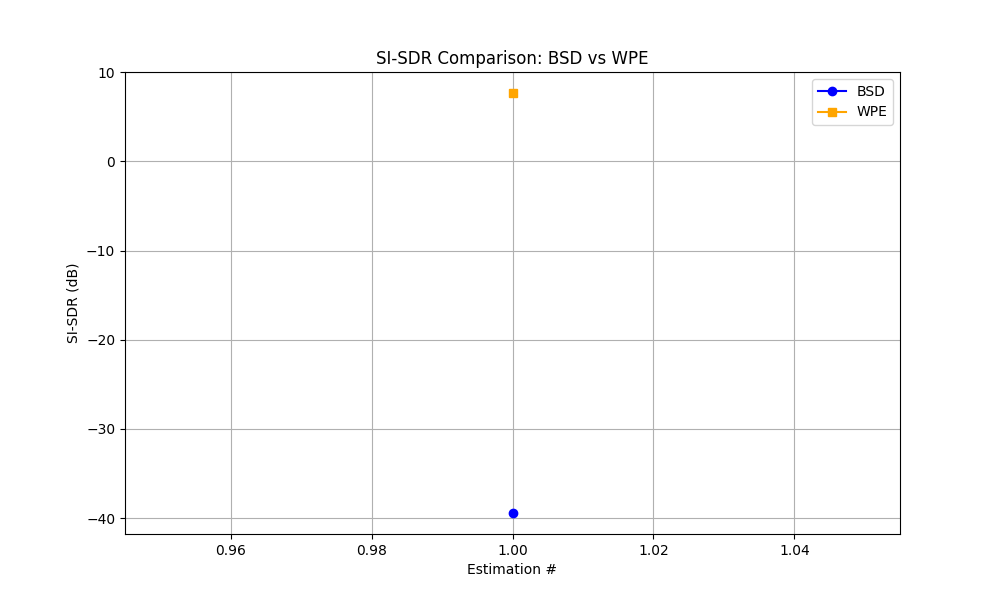
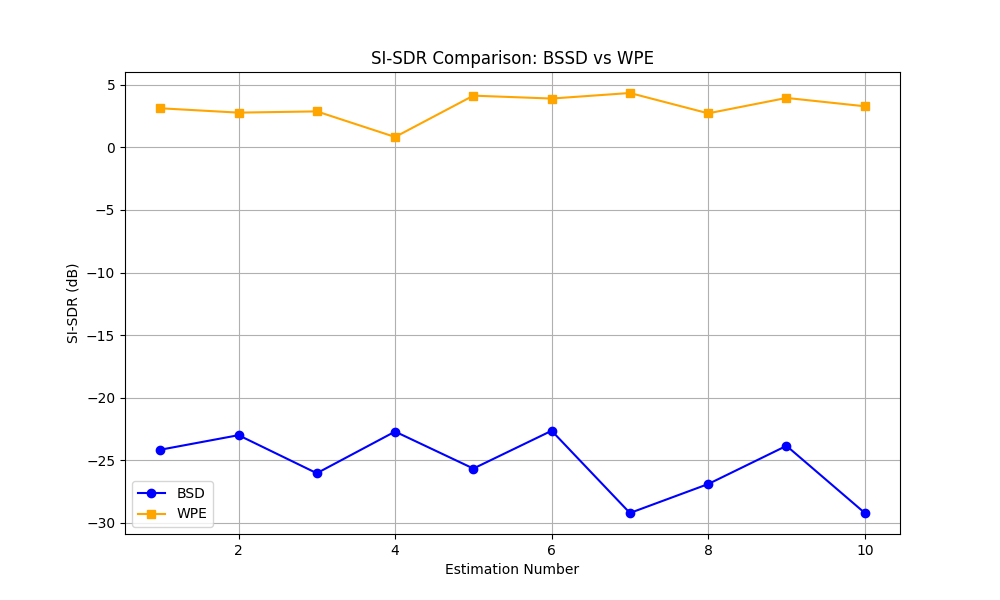
refined validation functions vs wpe

diff --git a/BSD-main/experiments/bssd_combined_td.py b/BSD-main/experiments/bssd_combined_td.py
@@ -11,6 +11,7 @@ import sys
 import pandas as pd
 from pystoi import stoi
 import matplotlib.pyplot as plt
+from pesq import pesq
 
 os.environ['TF_CPP_MIN_LOG_LEVEL'] = '3'
 sys.path.append(os.path.abspath('../'))
@@ -95,7 +96,7 @@ class bssd(object):
         self.epoch = 0
         self.hist_si_sdr, self.hist_stoi = [], []      # training curves
         self.best_metric = -1e9                        # higher is better
-        self.chkpt_path   = os.path.join(self.logdir, "weights.h5")
+        #self.chkpt_path   = os.path.join(self.logdir, "weights.h5")
 
         data = load_numpy_from_mat(self.predictions_file)
         if data is not None:
@@ -214,7 +215,7 @@ class bssd(object):
         spectrogram_dir = os.path.join(results_dir, "spectrograms")
         os.makedirs(spectrogram_dir, exist_ok=True)
 
-        results = {'method': [], 'si_sdr': [], 'stoi': []}
+        results = {'method': [], 'si_sdr': [], 'stoi': [], 'pesq': []}
 
         for i in range(number_of_estimations):
             print(f"\nEvaluation {i+1}/{number_of_estimations}")
@@ -223,24 +224,28 @@ class bssd(object):
             sid = self.fgen.generate_triplet_indices(speakers=self.fgen.nspk, utterances_per_speaker=SINGLE_UTTERANCE)
             z, r, sid, pid = self.fgen.generate_multichannel_mixtures(nsrc=self.nsrc, sid=sid)
 
-            y_bsd, _ = self.model.predict([z, r, pid[:,0], sid[:,0]], batch_size=1)
-            si_sdr_bsd = self.beamforming.si_sdr(r, y_bsd)
-            stoi_bsd = stoi(r[0], y_bsd[0], self.config['fs'], extended=False)
-
-            results['method'].append('BSD')
-            results['si_sdr'].append(si_sdr_bsd)
-            results['stoi'].append(stoi_bsd)
+            y_bssd, _ = self.model.predict([z, r, pid[:,0], sid[:,0]], batch_size=1)
+            si_sdr_bssd = self.beamforming.si_sdr(r, y_bssd)
+            stoi_bssd = stoi(r[0], y_bssd[0], self.config['fs'], extended=False)
+            pesq_bssd = pesq(self.config['fs'], r[0], y_bssd[0], mode='wb')
+            
+            results['method'].append('BSSD')
+            results['si_sdr'].append(si_sdr_bssd)
+            results['stoi'].append(stoi_bssd)
+            results['pesq'].append(pesq_bssd)
 
             y_wpe = self.wpe_model.dereverb_batch(z)
             si_sdr_wpe = self.beamforming.si_sdr(r, y_wpe)
             stoi_wpe = stoi(r[0], y_wpe[0], self.config['fs'], extended=False)
+            pesq_wpe = pesq(self.config['fs'], r[0], y_wpe[0], mode='wb')
 
             results['method'].append('WPE')
             results['si_sdr'].append(si_sdr_wpe)
             results['stoi'].append(stoi_wpe)
+            results['pesq'].append(pesq_wpe)
 
-            print(f"BSD - SI-SDR: {si_sdr_bsd:.2f} dB | STOI: {stoi_bsd:.3f}")
-            print(f"WPE - SI-SDR: {si_sdr_wpe:.2f} dB | STOI: {stoi_wpe:.3f}")
+            print(f"BSSD - SI-SDR: {si_sdr_bssd:.2f} dB | STOI: {stoi_bssd:.3f} | PESQ: {pesq_bssd:.2f}")
+            print(f"WPE  - SI-SDR: {si_sdr_wpe:.2f} dB | STOI: {stoi_wpe:.3f} | PESQ: {pesq_wpe:.2f}")
 
             # Save spectrogram comparison for this estimation
             spectrogram_path = os.path.join(
@@ -248,43 +253,45 @@ class bssd(object):
                 f"{self.name}_dereverb_comparison_estimation_{i+1}.png"
             )
 
-            self.plot_spectograms_comparison_bsd_wpe(
+            self.plot_spectograms_comparison_bssd_wpe(
                 z=z[0,:,0],
                 r=r[0,:],
-                y_bsd=y_bsd[0,:],
+                y_bssd=y_bssd[0,:],
                 y_wpe=y_wpe[0,:],
                 save_path=spectrogram_path
             )
 
         df = pd.DataFrame(results)
-        csv_path = os.path.join(results_dir, self.name + '_bsd_vs_wpe_metrics.csv')
+        csv_path = os.path.join(results_dir, self.name + '_vs_wpe_metrics_results.csv')
         df.to_csv(csv_path, index=False)
         print(f"\nMetrics saved to {csv_path}")
 
-        self.plot_bsd_vs_wpe_metrics(csv_path, results_dir)
+        self.plot_bssd_vs_wpe_metrics(csv_path, results_dir)
 
     
     #---------------------------------------------------------
-    def plot_bsd_vs_wpe_metrics(self, csv_path, results_dir):
+    def plot_bssd_vs_wpe_metrics(self, csv_path, results_dir):
 
         df = pd.read_csv(csv_path)
 
         estimations = list(range(1, (len(df)//2) + 1))
-        bsd_si_sdr = df[df['method'] == 'BSD']['si_sdr'].values
+        bssd_si_sdr = df[df['method'] == 'BSSD']['si_sdr'].values
         wpe_si_sdr = df[df['method'] == 'WPE']['si_sdr'].values
-        bsd_stoi = df[df['method'] == 'BSD']['stoi'].values
+        bssd_stoi = df[df['method'] == 'BSSD']['stoi'].values
         wpe_stoi = df[df['method'] == 'WPE']['stoi'].values
+        bssd_pesq = df[df['method'] == 'BSSD']['pesq'].values
+        wpe_pesq = df[df['method'] == 'WPE']['pesq'].values
 
         # Colors
-        color_bsd = 'blue'
+        color_bssd = 'blue'
         color_wpe = 'orange'
 
         # Plot SI-SDR
         plt.figure(figsize=(10, 6))
-        plt.plot(estimations, bsd_si_sdr, marker='o', color=color_bsd, label='BSD')
+        plt.plot(estimations, bssd_si_sdr, marker='o', color=color_bssd, label='BSSD')
         plt.plot(estimations, wpe_si_sdr, marker='s', color=color_wpe, label='WPE')
-        plt.title('SI-SDR Comparison: BSD vs WPE')
-        plt.xlabel('Estimation #')
+        plt.title('SI-SDR Comparison: BSSD vs WPE')
+        plt.xlabel('Estimation Number')
         plt.ylabel('SI-SDR (dB)')
         plt.grid(True)
         plt.legend()
@@ -295,10 +302,10 @@ class bssd(object):
 
         # Plot STOI
         plt.figure(figsize=(10, 6))
-        plt.plot(estimations, bsd_stoi, marker='o', color=color_bsd, label='BSD')
+        plt.plot(estimations, bssd_stoi, marker='o', color=color_bssd, label='BSSD')
         plt.plot(estimations, wpe_stoi, marker='s', color=color_wpe, label='WPE')
-        plt.title('STOI Comparison: BSD vs WPE')
-        plt.xlabel('Estimation #')
+        plt.title('STOI Comparison: BSSD vs WPE')
+        plt.xlabel('Estimation Number')
         plt.ylabel('STOI (unitless, 0-1)')
         plt.ylim(0, 1)
         plt.grid(True)
@@ -308,8 +315,23 @@ class bssd(object):
         plt.close()
         print(f"STOI plot saved to {stoi_plot_path}")
 
+        # Plot PESQ
+        plt.figure(figsize=(10, 6))
+        plt.plot(estimations, bssd_pesq, marker='o', color=color_bssd, label='BSSD')
+        plt.plot(estimations, wpe_pesq, marker='s', color=color_wpe, label='WPE')
+        plt.title('PESQ Comparison: BSSD vs WPE')
+        plt.xlabel('Estimation Number')
+        plt.ylabel('PESQ (MOS-LQO)')
+        plt.ylim(1, 5)
+        plt.grid(True)
+        plt.legend()
+        pesq_plot_path = os.path.join(results_dir, self.name + '_pesq_comparison.png')
+        plt.savefig(pesq_plot_path)
+        plt.close()
+        print(f"PESQ plot saved to {pesq_plot_path}")
+
     #---------------------------------------------------------
-    def plot_spectograms_comparison_bsd_wpe(self, z, r, y_bsd, y_wpe, save_path):
+    def plot_spectograms_comparison_bssd_wpe(self, z, r, y_bssd, y_wpe, save_path):
         """
         Generates and saves a spectrogram comparison plot for a single estimation.
         """
@@ -317,7 +339,7 @@ class bssd(object):
         # Normalize for visualization
         z = z / np.max(np.abs(z))
         r = r / np.max(np.abs(r))
-        y_bsd = y_bsd / np.max(np.abs(y_bsd))
+        y_bssd = y_bssd / np.max(np.abs(y_bssd))
         y_wpe = y_wpe / np.max(np.abs(y_wpe))
 
         # Compute log magnitude STFTs
@@ -327,11 +349,11 @@ class bssd(object):
         specs = [
             log_spec(z),
             log_spec(r),
-            log_spec(y_bsd),
+            log_spec(y_bssd),
             log_spec(y_wpe)
         ]
 
-        legend = ['Mixture $z(t)$', 'Clean $r(t)$', 'BSD output', 'WPE output']
+        legend = ['Reverberant $z(t)$', 'Clean $r(t)$', 'BSSD output', 'WPE output']
         draw_subpcolor(specs, legend, save_path)
 
         print(f"Spectrogram saved to {save_path}")
@@ -435,7 +457,7 @@ if __name__ == "__main__":
     if args.mode == 'valid_with_wpe':
         bssd = bssd(config)
         # number of estimation should be number of times evaluating the si-sdr and stoi metrics
-        bssd.validate_with_wpe(number_of_estimations = 1)  
+        bssd.validate_with_wpe(number_of_estimations = 10)  
 
     if args.mode == 'plot_dereverb_comparison':
         bssd = bssd(config)

diff --git a/BSD-main/experiments/bsd_td.py b/BSD-main/experiments/bsd_td.py
@@ -8,7 +8,10 @@ import sys
 os.environ['TF_CPP_MIN_LOG_LEVEL'] = '3'
 sys.path.append(os.path.abspath('../'))
 sys.path.append("/gpfs0/bgu-br/users/yahelso/model-based-speech-dereverberation/BSD-main")
-
+import pandas as pd
+from pystoi import stoi
+import matplotlib.pyplot as plt
+from pesq import pesq
 from keras.models import Sequential, Model
 from keras.layers import Layer, Dense, Activation, LSTM, Input, Lambda, BatchNormalization, LayerNormalization, Conv1D, Bidirectional
 from keras import activations
@@ -461,6 +464,162 @@ class bsd(object):
 
 
 
+    #--------additional logic for validating bsd model--------
+    #---------------------------------------------------------
+    def validate_with_wpe_for_bsd(self, number_of_estimations=1):
+
+        results_dir = self.config['validation_comparison_results']
+        os.makedirs(results_dir, exist_ok=True)
+
+        # Create spectrogram subfolder if needed
+        spectrogram_dir = os.path.join(results_dir, "spectrograms")
+        os.makedirs(spectrogram_dir, exist_ok=True)
+
+        results = {'method': [], 'si_sdr': [], 'stoi': [], 'pesq': []}
+
+        for i in range(number_of_estimations):
+            print(f"\nEvaluation {i+1}/{number_of_estimations}")
+
+            SINGLE_UTTERANCE = 1
+            sid = self.fgen.generate_triplet_indices(speakers=self.fgen.nspk, utterances_per_speaker=SINGLE_UTTERANCE)
+            z, r, sid, pid = self.fgen.generate_multichannel_mixtures(nsrc=self.nsrc, sid=sid)
+
+            y_bssd = self.model.predict([z, r, pid[:,0], sid[:,0]], batch_size=1)
+            si_sdr_bssd = self.beamforming.si_sdr(r, y_bssd)
+            stoi_bssd = stoi(r[0], y_bssd[0], self.config['fs'], extended=False)
+            pesq_bssd = pesq(self.config['fs'], r[0], y_bssd[0], mode='wb')
+            
+            results['method'].append('BSSD')
+            results['si_sdr'].append(si_sdr_bssd)
+            results['stoi'].append(stoi_bssd)
+            results['pesq'].append(pesq_bssd)
+
+            y_wpe = self.wpe_model.dereverb_batch(z)
+            si_sdr_wpe = self.beamforming.si_sdr(r, y_wpe)
+            stoi_wpe = stoi(r[0], y_wpe[0], self.config['fs'], extended=False)
+            pesq_wpe = pesq(self.config['fs'], r[0], y_wpe[0], mode='wb')
+
+            results['method'].append('WPE')
+            results['si_sdr'].append(si_sdr_wpe)
+            results['stoi'].append(stoi_wpe)
+            results['pesq'].append(pesq_wpe)
+
+            print(f"BSSD - SI-SDR: {si_sdr_bssd:.2f} dB | STOI: {stoi_bssd:.3f} | PESQ: {pesq_bssd:.2f}")
+            print(f"WPE  - SI-SDR: {si_sdr_wpe:.2f} dB | STOI: {stoi_wpe:.3f} | PESQ: {pesq_wpe:.2f}")
+
+            # Save spectrogram comparison for this estimation
+            spectrogram_path = os.path.join(
+                spectrogram_dir,
+                f"{self.name}_dereverb_comparison_estimation_{i+1}.png"
+            )
+
+            self.plot_spectograms_comparison_bssd_wpe(
+                z=z[0,:,0],
+                r=r[0,:],
+                y_bssd=y_bssd[0,:],
+                y_wpe=y_wpe[0,:],
+                save_path=spectrogram_path
+            )
+
+        df = pd.DataFrame(results)
+        csv_path = os.path.join(results_dir, self.name + '_vs_wpe_metrics_results.csv')
+        df.to_csv(csv_path, index=False)
+        print(f"\nMetrics saved to {csv_path}")
+
+        self.plot_bssd_vs_wpe_metrics(csv_path, results_dir)
+
+    
+    #---------------------------------------------------------
+    def plot_bssd_vs_wpe_metrics(self, csv_path, results_dir):
+
+        df = pd.read_csv(csv_path)
+
+        estimations = list(range(1, (len(df)//2) + 1))
+        bssd_si_sdr = df[df['method'] == 'BSSD']['si_sdr'].values
+        wpe_si_sdr = df[df['method'] == 'WPE']['si_sdr'].values
+        bssd_stoi = df[df['method'] == 'BSSD']['stoi'].values
+        wpe_stoi = df[df['method'] == 'WPE']['stoi'].values
+        bssd_pesq = df[df['method'] == 'BSSD']['pesq'].values
+        wpe_pesq = df[df['method'] == 'WPE']['pesq'].values
+
+        # Colors
+        color_bssd = 'blue'
+        color_wpe = 'orange'
+
+        # Plot SI-SDR
+        plt.figure(figsize=(10, 6))
+        plt.plot(estimations, bssd_si_sdr, marker='o', color=color_bssd, label='BSD')
+        plt.plot(estimations, wpe_si_sdr, marker='s', color=color_wpe, label='WPE')
+        plt.title('SI-SDR Comparison: BSD vs WPE')
+        plt.xlabel('Estimation Number')
+        plt.ylabel('SI-SDR (dB)')
+        plt.grid(True)
+        plt.legend()
+        si_sdr_plot_path = os.path.join(results_dir, self.name + '_si_sdr_comparison.png')
+        plt.savefig(si_sdr_plot_path)
+        plt.close()
+        print(f"SI-SDR plot saved to {si_sdr_plot_path}")
+
+        # Plot STOI
+        plt.figure(figsize=(10, 6))
+        plt.plot(estimations, bssd_stoi, marker='o', color=color_bssd, label='BSD')
+        plt.plot(estimations, wpe_stoi, marker='s', color=color_wpe, label='WPE')
+        plt.title('STOI Comparison: BSD vs WPE')
+        plt.xlabel('Estimation Number')
+        plt.ylabel('STOI (unitless, 0-1)')
+        plt.ylim(0, 1)
+        plt.grid(True)
+        plt.legend()
+        stoi_plot_path = os.path.join(results_dir, self.name + '_stoi_comparison.png')
+        plt.savefig(stoi_plot_path)
+        plt.close()
+        print(f"STOI plot saved to {stoi_plot_path}")
+
+        # Plot PESQ
+        plt.figure(figsize=(10, 6))
+        plt.plot(estimations, bssd_pesq, marker='o', color=color_bssd, label='BSD')
+        plt.plot(estimations, wpe_pesq, marker='s', color=color_wpe, label='WPE')
+        plt.title('PESQ Comparison: BSD vs WPE')
+        plt.xlabel('Estimation Number')
+        plt.ylabel('PESQ (MOS-LQO)')
+        plt.ylim(1, 5)
+        plt.grid(True)
+        plt.legend()
+        pesq_plot_path = os.path.join(results_dir, self.name + '_pesq_comparison.png')
+        plt.savefig(pesq_plot_path)
+        plt.close()
+        print(f"PESQ plot saved to {pesq_plot_path}")
+
+    #---------------------------------------------------------
+    def plot_spectograms_comparison_bssd_wpe(self, z, r, y_bssd, y_wpe, save_path):
+        """
+        Generates and saves a spectrogram comparison plot for a single estimation.
+        """
+
+        # Normalize for visualization
+        z = z / np.max(np.abs(z))
+        r = r / np.max(np.abs(r))
+        y_bssd = y_bssd / np.max(np.abs(y_bssd))
+        y_wpe = y_wpe / np.max(np.abs(y_wpe))
+
+        # Compute log magnitude STFTs
+        def log_spec(signal):
+            return 20 * np.log10(np.abs(mstft(signal)) + 1e-6)
+
+        specs = [
+            log_spec(z),
+            log_spec(r),
+            log_spec(y_bssd),
+            log_spec(y_wpe)
+        ]
+
+        legend = ['Reverberant $z(t)$', 'Clean $r(t)$', 'BSSD output', 'WPE output']
+        draw_subpcolor(specs, legend, save_path)
+
+        print(f"Spectrogram saved to {save_path}")
+
+    #-----end of additional logic for validating bsd model----
+
     #---------------------------------------------------------
     def plot(self):
 
@@ -539,7 +698,7 @@ if __name__ == "__main__":
     parser.add_argument('--mode',
                     help='mode: [train, valid, plot,save_rev_files]',
                     nargs='?',
-                    choices=('train', 'valid','valid_with_wpe', 'plot','plot_dereverb_comparison','save_rev_files'),
+                    choices=('train', 'valid','valid_with_wpe_for_bsd', 'plot','plot_dereverb_comparison','save_rev_files'),
                     default='train')
     parser.add_argument('--verbose', type=int,
                     choices=(0,1,2),
@@ -577,9 +736,9 @@ if __name__ == "__main__":
         bsd = bsd(config)
         bsd.validate()
 
-    if args.mode == 'valid_with_wpe':
+    if args.mode == 'valid_with_wpe_for_bsd':
         bsd = bsd(config)
-        bsd.validate_with_wpe()
+        bsd.validate_with_wpe_for_bsd(number_of_estimations=30)
 
     if args.mode == 'plot_dereverb_comparison':
         bsd = bsd(config)

diff --git a/BSD-main/data/loading_doa.py b/BSD-main/data/loading_doa.py
@@ -1,0 +1,11 @@
+import scipy.io
+
+# Load the .mat file
+mat_data = scipy.io.loadmat('doa_shoebox.mat')
+
+# Print the variable names and their contents
+for key, value in mat_data.items():
+    if not key.startswith('__'):  # Ignore metadata entries like __header__
+        print(f"Variable name: {key}")
+        print(f"Value:\n{value}\n")
+        print("-" * 40)
